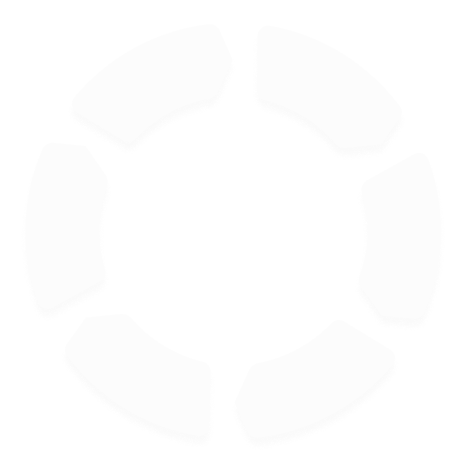
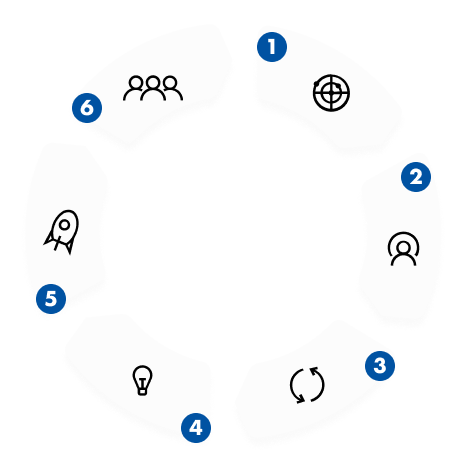
group two image layers from framework section into one, fix positioning

diff --git a/styles.css b/styles.css
@@ -371,19 +371,11 @@ body {
 @media only screen and (max-width: 992px) {
   .framework-img-under {
     position: absolute;
-    top: 0;
+    top: 50%;
+    transform: translateY(-50%);
     left: 0;
     right: 0;
     margin: auto;
-    max-width: 100%;
-  }
-  .framework-img-over {
-    position: absolute;
-    top: 30px;
-    left: 0;
-    right: 0;
-    margin: auto;
-    z-index: 2;
     max-width: 100%;
   }
 }

diff --git a/index.html b/index.html
@@ -415,7 +415,7 @@
           </div>
           <div class="col-md-6">
             <div class="framework-img-wrap h-30r">
-              <img src="./images/Group 28.png" class="framework-img-over" />
+            
               <img src="./images/framework.png" class="framework-img-under" />
             </div>
           </div>
